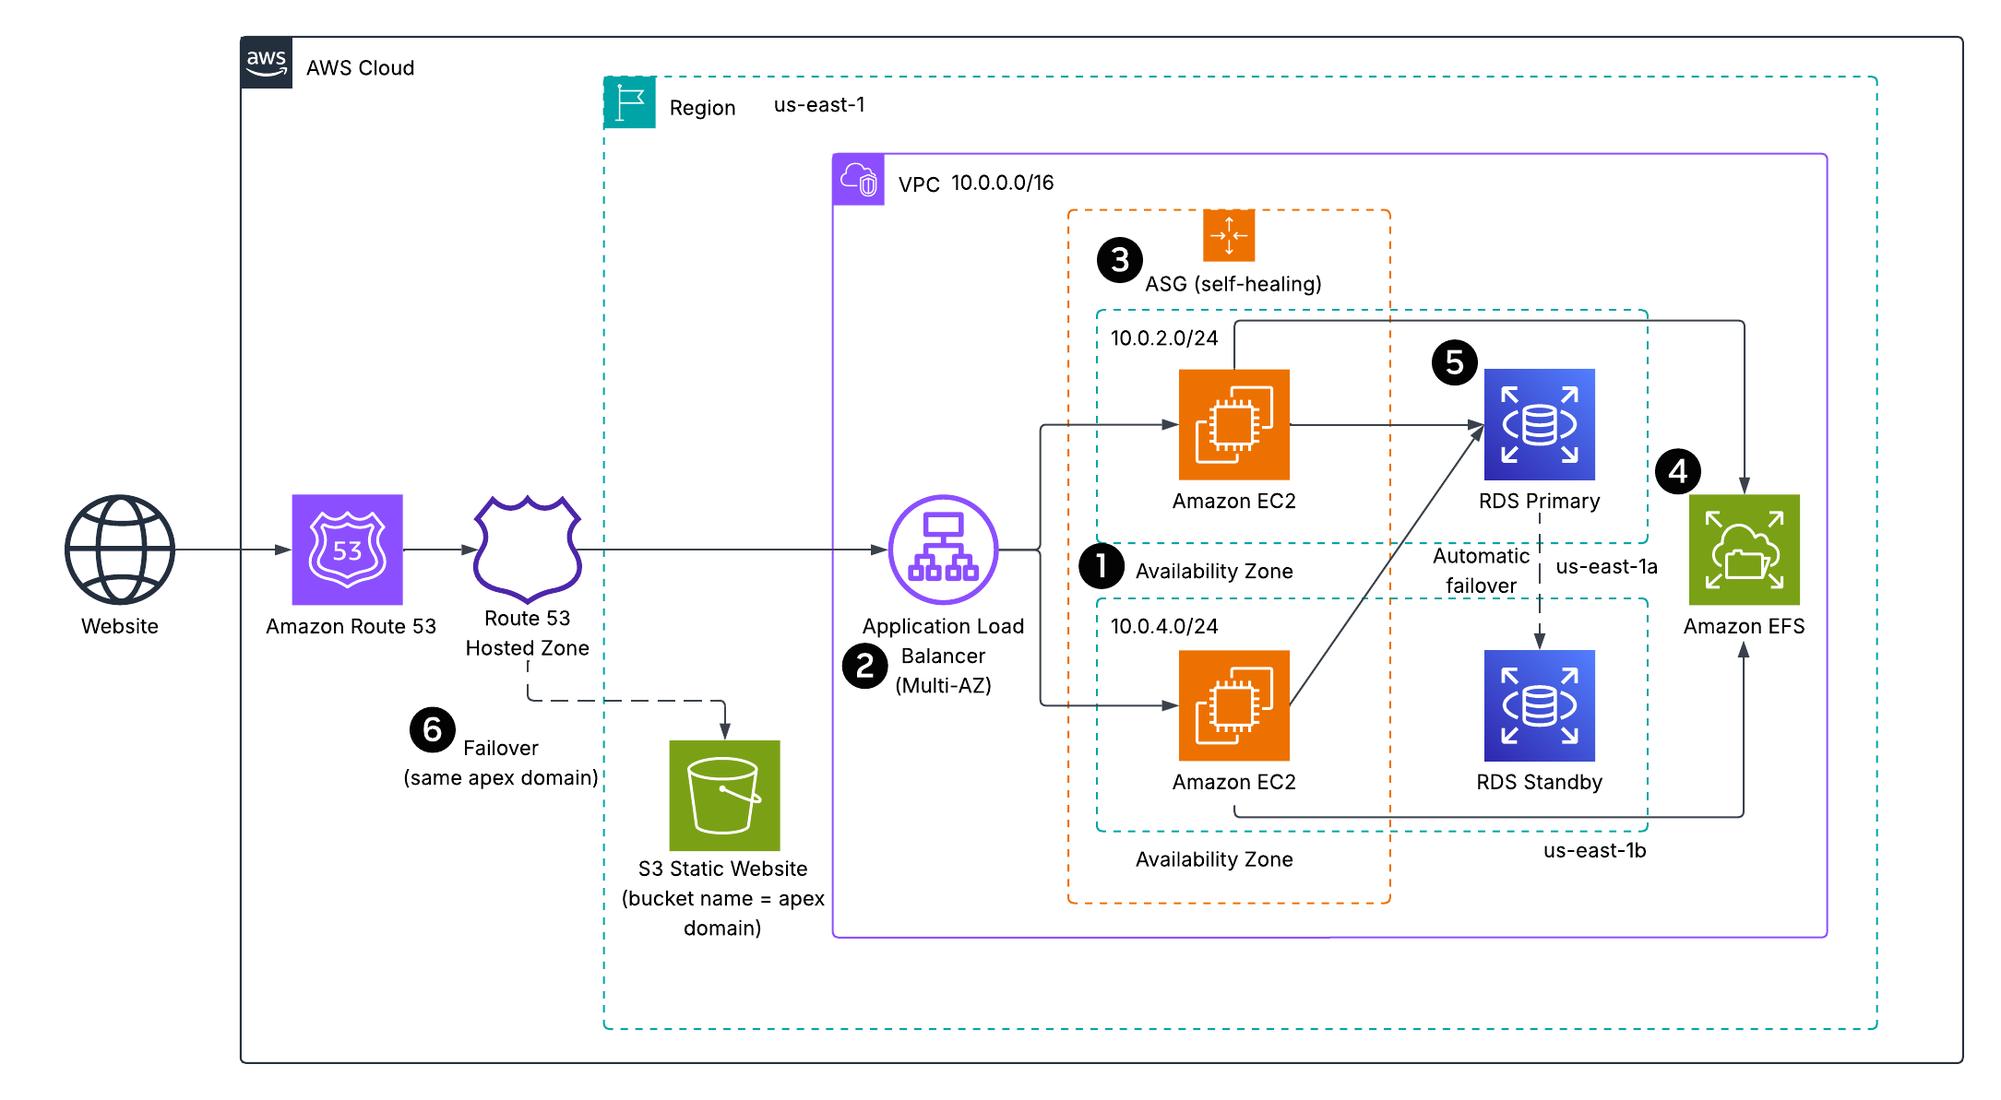
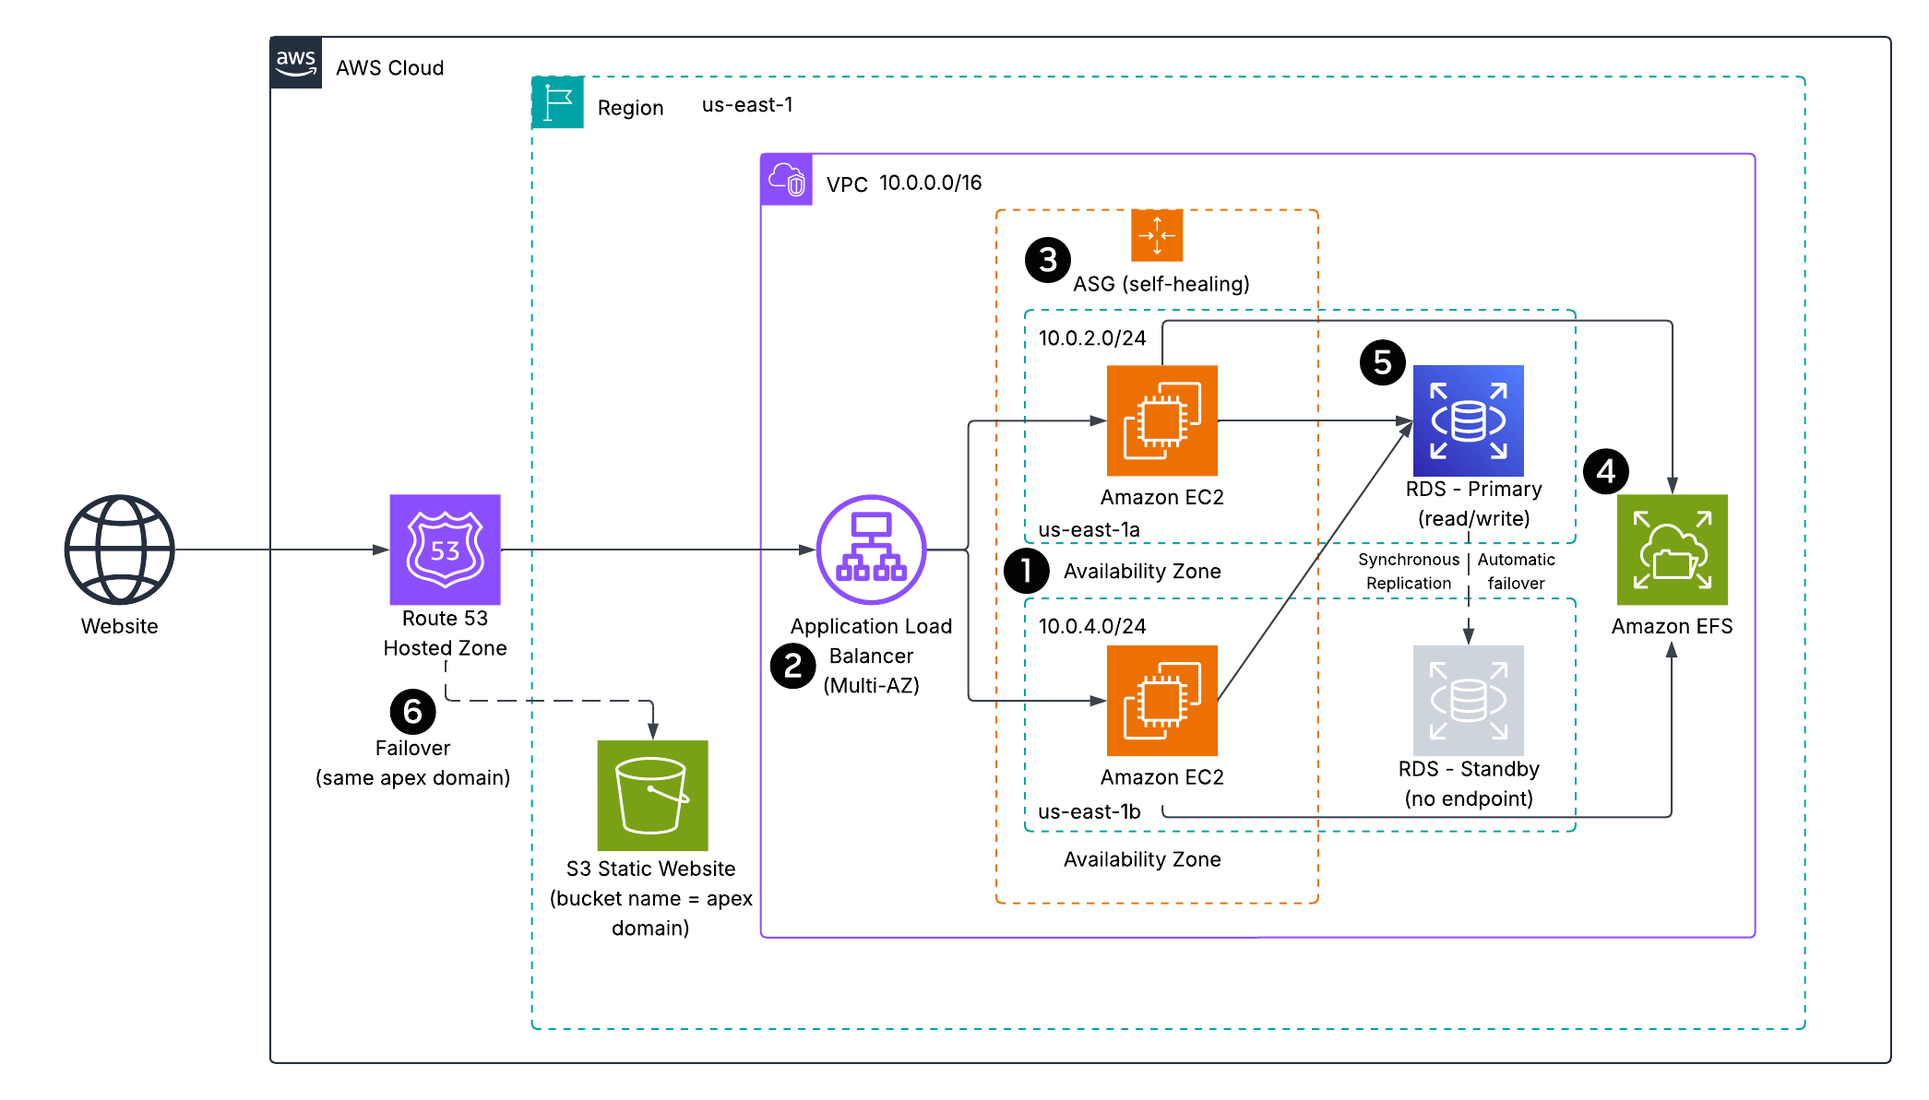
Cfn-lint edits, update diagram, and update README.md

diff --git a/README.md b/README.md
@@ -1,61 +1,62 @@
-# Medicare Hub - Reliable Application Deployment on AWS (Reliability Pillar)
+# Medicare Hub - Reliable Application Deployment on AWS (Reliability Pillar)  
 A reliability-focused refactor of a deliberately fragile (“unreliable baseline”) app into a **highly available, self-healing** architecture using **AWS-native** services and **nested CloudFormation**.  
 
 The app is intentionally simple (static website) so the repo can center on **reliability**: Multi-AZ design, ALB health checks, Auto Scaling self-healing, EFS shared storage, RDS Multi-AZ, and Route 53 apex failover to S3.  
 
-## Architecture Overview
+## Architecture Overview  
 ![Architecture Diagram](assets/architecture-diagram.png)  
 *Figure 1: Medicare Hub - Reliability-Focused Architecture*  
 
-**Legend (callouts)**
-1. **Multi-AZ architecture** – ALB, EC2 (ASG), RDS, and EFS span **us-east-1a/1b** to survive an AZ outage.  
-2. **ALB + health checks** – Routes traffic only to **healthy** instances; removes bad targets automatically.  
-3. **Auto Scaling Group (self-healing)** – Unhealthy instances are **replaced automatically**; capacity maintained across AZs.  
-4. **Amazon EFS (shared, regional storage)** – Web root on EFS so instances are stateless; replacements do not lose content.  
-5. **RDS Multi-AZ** – **Synchronous standby** in another AZ with **automatic failover**; storage autoscaling reduces “out-of-space” risk.  
-6. **Route 53 apex failover → S3** – If ALB/targets are down, the **same domain** serves a static S3 site for **graceful degradation**.  
+### Legend (callouts)  
+1. **Multi-AZ architecture** - ALB, EC2 (ASG), RDS, and EFS span **us-east-1a/1b** to survive an AZ outage.  
+2. **ALB + health checks** - Routes traffic only to **healthy** instances; removes bad targets automatically.  
+3. **Auto Scaling Group (self-healing)** - Unhealthy instances are **replaced automatically**; capacity maintained across AZs.  
+4. **Amazon EFS (shared, regional storage)** - Web root on EFS so instances are stateless; replacements do not lose content.  
+5. **RDS Multi-AZ** - **Synchronous standby** in another AZ with **automatic failover**; storage autoscaling reduces “out-of-space” risk.  
+6. **Route 53 apex failover → S3** - If ALB/targets are down, the **same domain** serves a static S3 site for **graceful degradation**.  
 
 > **Solid** arrows = primary data path; **dashed** arrows = failover path (Route 53 → S3 website).  
 
 > The repo also includes an **unreliable baseline** template *(optional)* so you can contrast anti-patterns vs. the **reliable** design.  
 
-## Skills Applied
+## Skills Applied  
 - Designing AWS reliability architecture **(Multi-AZ, health checks, auto-healing, graceful degradation)**.  
 - Orchestrating infrastructure with **CloudFormation** (nested stacks, S3-hosted template URLs).  
 - Administering access via **SSM Session Manager** (no public SSH).  
 - Implementing **least-privilege IAM** for EC2 (bucket-scoped read-only).  
 - Troubleshooting **ALB/TG** health and **Route 53** DNS failover behavior.  
 
-## Features (reliability-centric)
+## Features (reliability-centric)  
 - **Self-healing compute:** Launch Template + ASG across two AZs; instances auto-replace on failure.  
 - **Health-based routing:** ALB target group health determines traffic flow.  
 - **Shared storage:** **EFS** backs the web root so any instance can serve identical content.  
 - **Durable data:** **RDS Multi-AZ** with automatic failover and storage autoscaling.  
 - **DNS resiliency:** **Route 53 PRIMARY** (ALB) / **SECONDARY** (S3 website endpoint) uses the **same apex domain**.  
 
-## Tech Stack
+## Tech Stack  
 - **AWS Services:** VPC, IGW, NAT Gateway, EC2, Launch Templates, ALB, Target Groups, Auto Scaling, EFS, RDS (MySQL Multi-AZ), Route 53, S3, IAM, SSM  
 - **IaC:** AWS CloudFormation (nested stacks)  
 - **Other:** AWS CLI, PowerShell (examples)  
 
-## Deployment Instructions
-> **Note:** All examples use `PowerShell` syntax. On bash, replace backticks ``(`)`` with `\` or put args on one line.    
+## Deployment Instructions  
+> **Note:** Many commands are identical across shells; the main differences are line continuation (PowerShell: `` ` `` • Bash: `\` • cmd.exe: `^`), environment variables (PowerShell: `$env:NAME=...` • Bash: `NAME=...` • cmd.exe: `set NAME=...`), and path separators.  
 
-### CloudFormation
+### CloudFormation  
 1. Clone this repository.  
 
 2. Deploy the `s3-buckets.yaml` template to create S3 buckets (artifacts, content, and failover). The `FailoverBucketName` needs to match **exactly** to the apex domain to use the **Static website hosting** enabled for the DNS failover.  
-   ```powershell
-   cd cloudformation
-   aws cloudformation deploy `
-   --stack-name medicare-hub-s3-buckets `
-   --template-file s3-bucket.yaml `
-   --parameter-overrides `
-     WebsiteContentBucketName=<your-bucket-name> `
-     FailoverBucketName=<your-domain-name> `
-     ArtifactsBucketName="<optional-bucket-name>" `
-   --capabilities CAPABILITY_NAMED_IAM `
-   ```
+    ```powershell
+    cd cloudformation
+    aws cloudformation deploy `
+    --stack-name medicare-hub-s3-buckets `
+    --template-file s3-bucket.yaml `
+    --parameter-overrides `
+      WebsiteContentBucketName=<your-bucket-name> `
+      FailoverBucketName=<your-domain-name> `
+      ArtifactsBucketName="<optional-bucket-name>" `
+    --capabilities CAPABILITY_NAMED_IAM `
+    --tags Project=aws-medicare-hub-reliability-pillar
+    ```
 
     Grab the bucket names:  
     ```powershell
@@ -75,145 +76,143 @@ The app is intentionally simple (static website) so the repo can center on **rel
     % { $_.OutputValue }
     ```
 
-4. Upload website content to the S3 buckets. The ASG Launch Template syncs from the **content bucket root** to the EFS-backed `/var/www/html`. Ensure `index.html` is in the **root**.  
+3. Upload website content to the S3 buckets. The ASG Launch Template syncs from the **content bucket root** to the EFS-backed `/var/www/html`. Ensure `index.html` is in the **root**.  
     ```powershell
     cd ../MedicareHubWebsite
     aws s3 cp . s3://$WEBSITE_BUCKET/ --recursive
     aws s3 cp . s3://$FAILOVER_BUCKET/ --recursive
 	  ```
 
-5. Upload the nested CloudFormation templates to the S3 bucket:   
+4. Upload the nested CloudFormation templates to the S3 bucket:   
 	  ```powershell
    cd ../cloudformation
-   aws s3 cp phase1-networking.yaml 	s3://$TEMPL_BUCKET/cfn/
-   aws s3 cp phase2-efs.yaml    	 	s3://$TEMPL_BUCKET/cfn/
-   aws s3 cp phase3-rds.yaml        	s3://$TEMPL_BUCKET/cfn/
-   aws s3 cp phase4-compute.yaml    	s3://$TEMPL_BUCKET/cfn/
-   aws s3 cp phase5-dns-failover.yaml	s3://$TEMPL_BUCKET/cfn/
+   aws s3 cp phase1-networking.yaml       s3://$TEMPL_BUCKET/cfn/
+   aws s3 cp phase2-efs.yaml              s3://$TEMPL_BUCKET/cfn/
+   aws s3 cp phase3-rds.yaml              s3://$TEMPL_BUCKET/cfn/
+   aws s3 cp phase4-compute.yaml          s3://$TEMPL_BUCKET/cfn/
+   aws s3 cp phase5-dns-failover.yaml     s3://$TEMPL_BUCKET/cfn/
 	```
 
-6. Edit the `params.json` and `parent-template.yaml` file to customize the deployment.    
-   - `KeyPairName` is an optional parameter to set the SSH key pair that will be used to SSH to the application servers for any additional configuration or troubleshooting. This can be created separately in the AWS Management Console under EC2 > Key Pairs.    
+5. Edit the `params.json` and `parent-template.yaml` file to customize the deployment.  
+   - `KeyPairName` is an optional parameter to set the SSH key pair that will be used to SSH to the application servers for any additional configuration or troubleshooting. This can be created separately in the AWS Management Console under EC2 > Key Pairs.  
    - `DbUsername` and `DbPassword` are the credentials that will be used to access the RDS instance.  
    - `Phase*TemplateURL` is the Object URL of each nested template (e.g., https://<YOUR_BUCKET_NAME>.s3.<YOUR_REGION>.amazonaws.com/cfn/phase1-networking.yaml).  
    - The `WebsiteContentBucketName` and `FailoverBucketName` can be retreived from the outputs of the `s3-buckets.yaml` file. The `DomainName` must match the `FailoverBucketName`.  
    - The default values for `VpcCidr`, `PublicSubnet1Cidr`, `PublicSubnet2Cidr`, `PrivateSubnet1Cidr`, and `PrivateSubnet2Cidr`can be edited in the `phase1-networking.yaml` file.  
 
-7. Deploy the CloudFormation stack:  
+6. Deploy the CloudFormation stack:  
     ```powershell
     aws cloudformation deploy `
     --stack-name medicare-hub-parent `
     --template-file parent-template.yaml `
     --parameter-overrides file://params.json `
-    --capabilities CAPABILITY_NAMED_IAM
+    --capabilities CAPABILITY_NAMED_IAM `
+    --tags Project=aws-medicare-hub-reliability-pillar
 	  ```
 
-8. *(Optional)* The repo includes `unreliable-baseline.yaml` that demonstrates common anti-patterns (single public EC2 with 22/80 open, no backup or failover for website). Deploy separately if you want to compare behaviors; it’s not referenced by the parent template.  
+7. *(Optional)* The repo includes `unreliable-baseline.yaml` that demonstrates common anti-patterns (single public EC2 with 22/80 open, no backup or failover for website). Deploy separately if you want to compare behaviors; it’s not referenced by the parent template. Check `unreliable-baseline.yaml` for the exact parameter names and adjust if needed. Create the SSM SecureString parameter `/medicarehub-unreliable/db/master_password` to deploy.  
     ```powershell
     aws cloudformation deploy `
     --stack-name medicare-hub-baseline `
     --template-file unreliable-baseline.yaml `
     --parameter-overrides WebsiteContentBucketName=<your-bucket-name> `
-      DbUsername=admin `
-      DbPassword=<DemoPassword> `
-    --capabilities CAPABILITY_NAMED_IAM
+    --capabilities CAPABILITY_NAMED_IAM `
+    --tags Project=aws-medicare-hub-reliability-pillar-unreliable-baseline
 	  ```
-	  > Check `unreliable-baseline.yaml` for the exact parameter names and adjust if needed.  
 	
-**Note:** Ensure the AWS CLI is configured (`aws configure`) with credentials that have sufficient permissions to manage **S3**, **EC2**, **RDS**, **EFS**, **Route 53**, **SSM**, **VPCs**, **Subnets**, **Route Tables**, **NAT Gateways**, **IGW**, **ALB**, **Launch Templates**, **Auto Scaling Groups** **Security Groups**, and **IAM resources**.  
+> **Note**: Ensure the AWS CLI user (`aws configure`) or CloudFormation assumed role has sufficient permissions to manage **S3**, **EC2**, **RDS**, **EFS**, **Route 53**, **SSM**, **VPCs**, **Subnets**, **Route Tables**, **NAT Gateways**, **IGW**, **ALB**, **Launch Templates**, **Auto Scaling Groups** **Security Groups**, and **IAM resources**.  
 
-## How to Use (Validate Reliability Behaviors)
+## How to Use (Validate Reliability Behaviors)  
 1. **Deploy the infrastructure** using CloudFormation and collect outputs:  
-	```powershell
-	$Region  = (aws configure get region); if (-not $Region) { $Region = 'us-east-1' }
-	$Parent  = 'medicarehub-parent'   # your parent stack name
-	$parentOut = (aws cloudformation describe-stacks --stack-name $Parent --region $Region | ConvertFrom-Json).Stacks[0].Outputs
-	$AlbDNS    = ($parentOut | ? { $_.OutputKey -eq 'AlbDNSName' } | select -Expand OutputValue)
-	$Domain    = "<Your-Domain-Name>"
-	```
+    ```powershell
+    $Region  = (aws configure get region); if (-not $Region) { $Region = 'us-east-1' }
+    $Parent  = 'medicarehub-parent'   # your parent stack name
+    $parentOut = (aws cloudformation describe-stacks --stack-name $Parent --region $Region | ConvertFrom-Json).Stacks[0].Outputs
+    $AlbDNS    = ($parentOut | ? { $_.OutputKey -eq 'AlbDNSName' } | select -Expand OutputValue)
+    $Domain    = "<Your-Domain-Name>"
+    ```
 	
-2. **Normal path works (ALB → EC2 → EFS):**   
-	```powershell
-	Invoke-WebRequest -Uri ("http://{0}" -f $AlbDNS) -UseBasicParsing | Select-Object StatusCode
-	Invoke-WebRequest -Uri ("http://{0}" -f $Domain) -UseBasicParsing | Select-Object StatusCode
-	```
+2. **Normal path works (ALB → EC2 → EFS):**  
+    ```powershell
+    Invoke-WebRequest -Uri ("http://{0}" -f $AlbDNS) -UseBasicParsing | Select-Object StatusCode
+    Invoke-WebRequest -Uri ("http://{0}" -f $Domain) -UseBasicParsing | Select-Object StatusCode
+    ```
 	
-3. **Auto Scaling Group self-healing:**   
-	```powershell
-	$phase4Id = (aws cloudformation describe-stack-resources --stack-name $Parent --region $Region | ConvertFrom-Json).StackResources |
-	? { $_.LogicalResourceId -eq 'Phase4Compute' }
-	| select -Expand PhysicalResourceId
-	$phase4Out = (aws cloudformation describe-stacks --stack-name $phase4Id --region $Region | ConvertFrom-Json).Stacks[0].Outputs
-	$TgArn   = ($phase4Out | ? { $_.OutputKey -eq 'TargetGroupArn' }        | select -Expand OutputValue)
-	$AsgName = ($phase4Out | ? { $_.OutputKey -eq 'AutoScalingGroupName' }  | select -Expand OutputValue)
-	"TG ARN : $TgArn"
-	"ASG    : $AsgName"
+3. **Auto Scaling Group self-healing:**  
+    ```powershell
+    $phase4Id = (aws cloudformation describe-stack-resources --stack-name $Parent --region $Region | ConvertFrom-Json).StackResources |
+    ? { $_.LogicalResourceId -eq 'Phase4Compute' }
+    | select -Expand PhysicalResourceId
+    $phase4Out = (aws cloudformation describe-stacks --stack-name $phase4Id --region $Region | ConvertFrom-Json).Stacks[0].Outputs
+    $TgArn   = ($phase4Out | ? { $_.OutputKey -eq 'TargetGroupArn' }        | select -Expand OutputValue)
+    $AsgName = ($phase4Out | ? { $_.OutputKey -eq 'AutoScalingGroupName' }  | select -Expand OutputValue)
+    "TG ARN : $TgArn"
+    "ASG    : $AsgName"
 	
-	# Check target health- should see healthy targets.
-	aws elbv2 describe-target-health --target-group-arn $TgArn --region $Region | ConvertFrom-Json | Select-Object -Expand TargetHealthDescriptions
-	
-	# List instances, terminate one at random (ASG replaces it)
-	$inst = (aws autoscaling describe-auto-scaling-groups --auto-scaling-group-names $AsgName |
-	ConvertFrom-Json).AutoScalingGroups[0].Instances
-	$bad = Get-Random -InputObject ($inst | Select-Object -Expand InstanceId)
-	aws autoscaling terminate-instance-in-auto-scaling-group `
-	--instance-id $bad --should-decrement-desired-capacity $false | Out-Null
-	```
-	
+    # Check target health- should see healthy targets.
+    aws elbv2 describe-target-health --target-group-arn $TgArn --region $Region | ConvertFrom-Json | Select-Object -Expand TargetHealthDescriptions
+    
+    # List instances, terminate one at random (ASG replaces it)
+    $inst = (aws autoscaling describe-auto-scaling-groups --auto-scaling-group-names $AsgName |
+    ConvertFrom-Json).AutoScalingGroups[0].Instances
+    $bad = Get-Random -InputObject ($inst | Select-Object -Expand InstanceId)
+    aws autoscaling terminate-instance-in-auto-scaling-group `
+    --instance-id $bad --should-decrement-desired-capacity $false | Out-Null
+    ```
+
 4. **DNS failover to S3 (apex):**  
-	```PowerShell
-	# Scale to zero to force failover
-	aws autoscaling update-auto-scaling-group --auto-scaling-group-name $AsgName --desired-capacity 0 --min-size 0 --region $Region
-	
-	# Wait ~5 minutes; ALB has no healthy targets
-	$hz = ($parent.Stacks[0].Outputs | ? {$_.OutputKey -eq 'HostedZoneId'}).OutputValue
-	
-	# What Route 53 would answer right now?
-	aws route53 test-dns-answer --hosted-zone-id $hz --record-name $Domain --record-type A | ConvertFrom-Json
+    ```PowerShell
+    # Scale to zero to force failover
+    aws autoscaling update-auto-scaling-group --auto-scaling-group-name $AsgName --desired-capacity 0 --min-size 0 --region $Region
+    
+    # Wait ~5 minutes; ALB has no healthy targets
+    $hz = ($parent.Stacks[0].Outputs | ? {$_.OutputKey -eq 'HostedZoneId'}).OutputValue
+    
+    # What Route 53 would answer right now?
+    aws route53 test-dns-answer --hosted-zone-id $hz --record-name $Domain --record-type A | ConvertFrom-Json
+    
+    # The domain should now serve from S3 (Status Code 200).
+    $r = Invoke-WebRequest -Uri ("http://{0}" -f $domain) -Method Head -UseBasicParsing
+    $r.StatusCode, $r.Headers['Server']
+    
+    # Restore capacity to failback DNS to ALB. Wait ~5 minutes until ALB has 2 healthy targets.
+    aws autoscaling update-auto-scaling-group --auto-scaling-group-name $AsgName --desired-capacity 2 --min-size 1 --region $Region
+    
+    # The domain should now serve from ALB/EC2 (Status Code 200).
+    $r = Invoke-WebRequest -Uri ("http://{0}" -f $domain) -Method Head -UseBasicParsing
+    $r.StatusCode, $r.Headers['Server']	
+    ```
 
-	# The domain should now serve from S3 (Status Code 200).
-	$r = Invoke-WebRequest -Uri ("http://{0}" -f $domain) -Method Head -UseBasicParsing
-	$r.StatusCode, $r.Headers['Server']
-	
-	# Restore capacity to failback DNS to ALB. Wait ~5 minutes until ALB has 2 healthy targets.
-	aws autoscaling update-auto-scaling-group --auto-scaling-group-name $AsgName --desired-capacity 2 --min-size 1 --region $Region
-	
-	# The domain should now serve from ALB/EC2 (Status Code 200).
-	$r = Invoke-WebRequest -Uri ("http://{0}" -f $domain) -Method Head -UseBasicParsing
-	$r.StatusCode, $r.Headers['Server']	
-	```
-
-## Project Structure   
+## Project Structure  
 ```plaintext
 aws-medicare-hub-reliability-pillar
-├── assets/                          	  # Images, diagrams, screenshots
+├── assets/                               # Images, diagrams, screenshots
 │   ├── architecture-diagram.png          # Project architecture diagram
 │   └── application-screenshot.png        # Minimal application screenshot
 ├── cloudformation/                       # CloudFormation templates
-│   ├── parent-template.yaml          	  # Wires phases (nested stacks from S3 URLs)
+│   ├── parent-template.yaml              # Wires phases (nested stacks from S3 URLs)
 │   ├── phase1-networking.yaml            # # VPC, subnets, IGW, NAT
 │   ├── phase2-efs.yaml	                  # EFS + mount targets, SG (NFS 2049 from app SG)
 │   ├── phase3-rds.yaml                   # RDS MySQL Multi-AZ, private subnets, SG from app SG
 │   ├── phase4-compute.yaml               # LT + ASG + ALB + TG health; UserData mounts EFS, syncs S3
 │   ├── phase5-dns-failover.yaml          # Route 53 zone; PRIMARY→ALB, SECONDARY→S3 website endpoint
-│   ├── s3-buckets.yaml				      # Artifacts bucket, content bucket, failover bucket (+ policy)
+│   ├── s3-buckets.yaml                   # Artifacts bucket, content bucket, failover bucket (+ policy)
 │   ├── params.json                       # Parent parameters (Template URLs + minimal inputs)
-│   └── unreliable-baseline.yaml		  # Optional unreliable stack (not referenced by parent)
-├── MedicareHubWebsite/  				  # Website files
+│   └── unreliable-baseline.yaml          # Optional unreliable stack (not referenced by parent)
+├── MedicareHubWebsite/                   # Website files
 │   ├── img/                           	  # Images
 │   ├── index.html                        # Default web page
 │   └── styles.css                        # Stylesheets
-├── LICENSE
-├── README.md
-└── .gitignore
-```  
+├── LICENSE                               
+├── README.md                             
+└── .gitignore                            
+```
 
 ## Screenshot  
-![Application Screenshot](assets/application-screenshot.png)   
-
+![Application Screenshot](assets/application-screenshot.png)  
 *Figure 2: Minimal application page served via ALB (primary) and S3 (failover).*  
 
-## Future Enhancements
+## Future Enhancements  
 - **CloudWatch alarms** for ALB 5xx, TG unhealthy count, ASG term/launch, EFS burst credits, RDS failover events.  
 - **Second NAT Gateway** in the other AZ for full egress resilience.  
 - **CloudFront** in front of S3 failover for HTTPS and caching.  
@@ -221,18 +220,18 @@ aws-medicare-hub-reliability-pillar
 - **CI/CD (GitHub Actions)** to lint/validate CFN and deploy stacks.  
 - **Cross-Region DR** *(optional advanced)*: second region + Route 53 latency/failover routing.  
 
-## License
+## License  
 This project is licensed under the [MIT License](LICENSE).  
 
 ---
 
-## Author
+## Author  
 **Patrick Heese**  
 Cloud Administrator | Aspiring Cloud Engineer/Architect  
 [LinkedIn Profile](https://www.linkedin.com/in/patrick-heese/) | [GitHub Profile](https://github.com/patrick-heese)  
 
-## Acknowledgments
+## Acknowledgments  
 This project was inspired by a course from [techwithlucy](https://github.com/techwithlucy).  
 The Medicare Hub static website files were taken directly from the course author's original implementation.  
 The architecture diagram included here is my own version, adapted from the original course diagram.  
-I designed and developed all Infrastructure-as-Code (CloudFormation) and project documentation.  
+I designed and developed all Infrastructure as Code (CloudFormation) and project documentation.  
